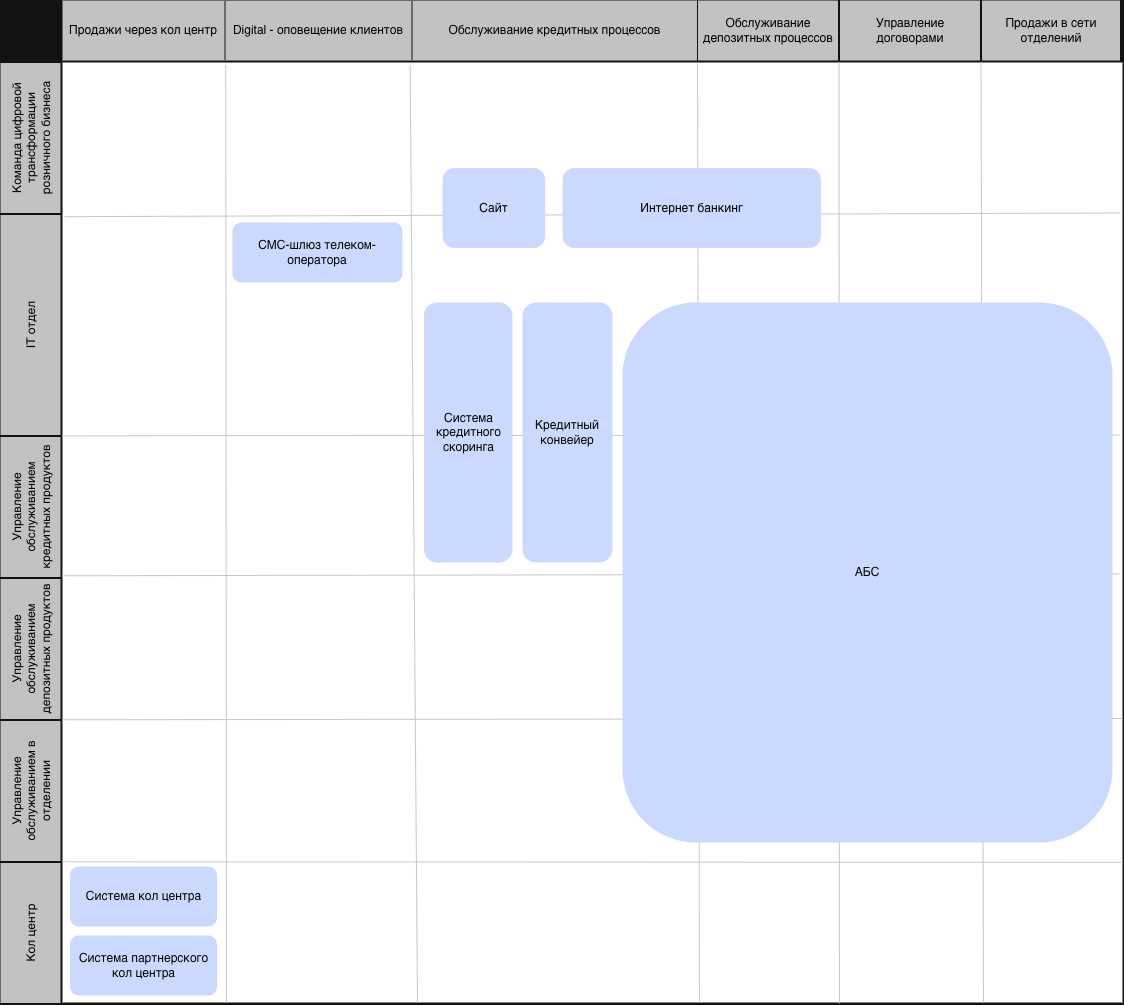
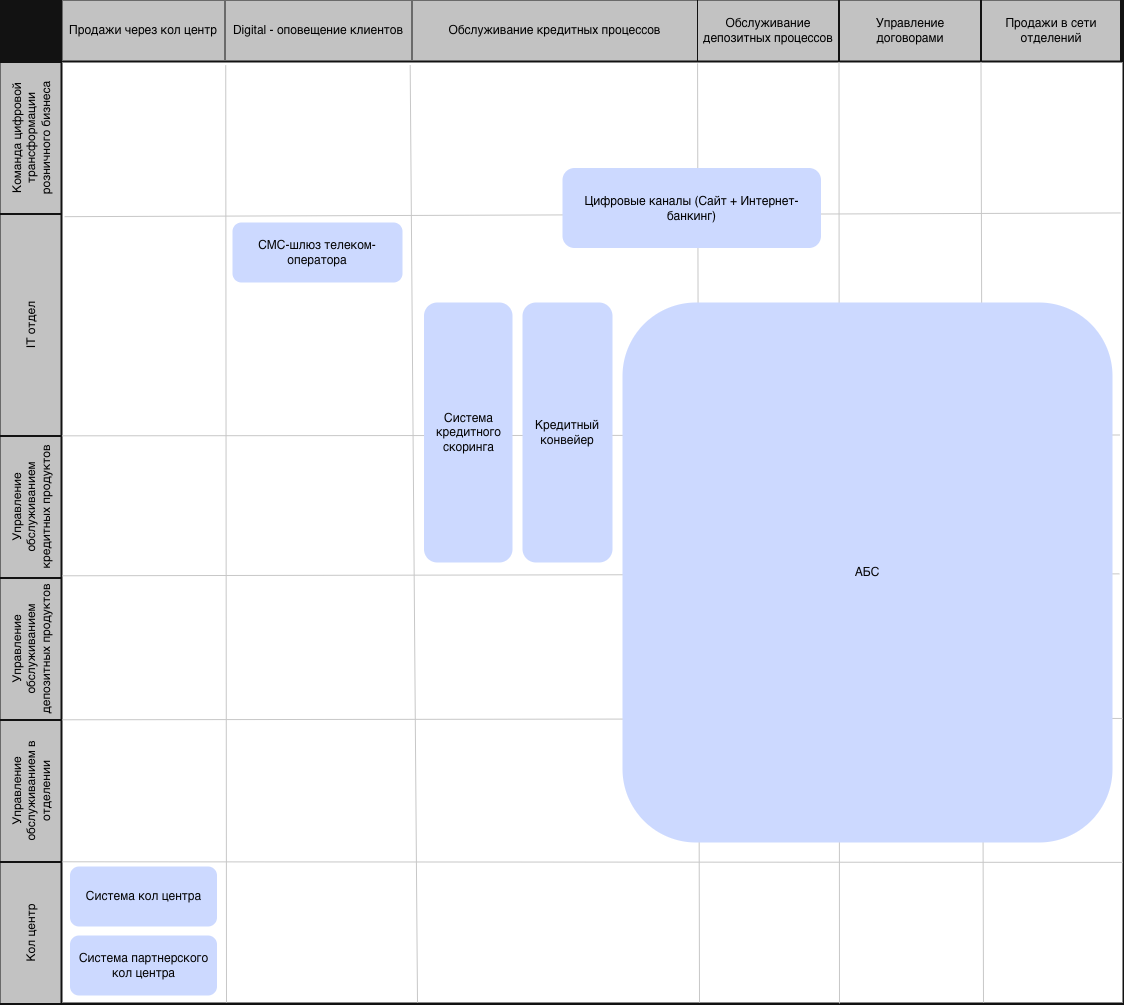
impl task 2

Changed region(s): [[0.3737, 0.1542, 0.4982, 0.2468], [0.5294, 0.1851, 0.7162, 0.2159]]

diff --git a/Task2/FURPS+_ALL.md b/Task2/FURPS+_ALL.md
@@ -1,0 +1,66 @@
+# FRUPS+ — Все требования
+
+| Код  | Требования                                                                 | Комментарий                                                                                                      |
+|------|-----------------------------------------------------------------------------|------------------------------------------------------------------------------------------------------------------|
+| F    | **Функциональные (Functionality)**                                              |                                                                                                                  |
+| F1   | Просмотр списка доступных депозитов и актуальных ставок на сайте            |                                                                                                                  |
+| F2   | Подача заявки на депозит с сайта (передаем номера телефона, ФИО)            |                                                                                                                  |
+| F3   | Просмотр заявки на депозит в системе кол центра                              |                                                                                                                  |
+| F4   | Фиксация результатов звонка с клиентом в системе кол центра                 | Явно не отражено в описании требований, но необходимо для дальнейшего подтверждения в АБС                       |
+| F5   | Просмотр актуальных базовых ставок по депозитам  в системе кол центра       | Явно не отражено в описании требований, но необходимо для консультации клиента по заявке                        |
+| F6   | Просмотр списка депозитов с актуальными и персонализированными ставками в интернет банкинге  |                                                                                  |
+| F7   | Подача заявки на открытие депозита в интернет банкинге (передаем счет списания + сумма депозита) |                                                     |
+| F8   | Подтверждение операции в интернет-банке через СМС-код                       |                                                                                                                  |
+| F9   | Подтверждение условий и ставки депозита в АБС бэк-офисом                     |                                                                                                                  |
+| F10  | Получение СМС-уведомления клиентом после подтверждения ставки/условий и после открытия депозита |                                            |
+| F11  | Управление ставками депозитных продуктов для сотрудника бэк офиса кредитования |                                                                                                                |
+| F12  | Отображение ставок по депозитам для сотрудника бэк офиса депозитов          |   
+| F13   | Просмотр списка доступных кредитных продуктов и актуальных условий на сайте | |
+| F14   | Подача заявки на кредит с сайта с указанием номера телефона и Ф. И. О. | |
+| F15   | Подача заявки на кредит с сайта с указанием паспортных данных для получения мгновенного решения | |
+| F16   | Получение решения по заявке нового клиента на основе данных системы кредитного скоринга и БКИ | |
+| F17   | Отправка клиенту СМС-уведомления о необходимости посещения отделения для идентификации и получения кредита | |
+| F18   | Продолжение обработки ранее созданной заявки по предодобренному кредиту (сайт → отделение) | |
+| F19   | Просмотр списка доступных кредитов и актуальных условий в интернет-банкинге | |
+| F20   | Отображение предодобренного кредитного предложения в интернет-банкинге | |
+| F21   | Повторный скоринг заявки по упрощённой процедуре при подаче заявки по предодобренному предложению | |
+| F22  | Подача заявки на кредит в интернет-банкинге с указанием счёта зачисления средств | |
+| F23  | Подтверждение подачи заявки на кредит в интернет-банкинге через СМС-код | |
+| F24  | Информирование клиента по СМС об изменении статуса заявки на кредит | |
+| F25  | Статусы заявки должны быть едиными и согласованными | Доп. требование: явно не отражено в описании, но без него невозможно корректно реализовать F24 |                                                                                                               |
+| U    | **Удобство использования (Usability)**                                          |                                                                                                                  |
+| U1   | Сайт и интернет-банк должны соответствовать принятой дизайн-системе         |                                                                                                                  |
+| U2   | Корректная работа сайта на мобильных устройствах (адаптивность)             | Доп. требование: сайт — публичный канал, ошибки UI/доступности влияют на продажи и репутацию.                  |
+| R    | **Надёжность (Reliability)**                                                    |                                                                                                                  |
+| R1   | Доступность сервисов 24/7 и 99,9%                                           |                                                                                                                  |
+| R2   | Избегать прямых синхронных вызовов интернет-банка к API АБС в новом процессе |                                                                                                                  |
+| R3   | При сбое ЦОД сервис должен быть доступен; поддержка переключения на резервный ЦОД |                                                                                                             |
+| R4   | Заявки и события не должны теряться; повторная отправка должна быть безопасной (идемпотентность) | Доп. требование: иначе будут “пропавшие” заявки и двойные СМС/операции |
+| R5   | Метрики доступности, задержек, ошибок                                       | Доп. требование для достижения 99,9% и управляемости.                                                           |
+| R6   | Защита персональных данных                                                  | Доп. требование (обоснование): сайт и IB обрабатывают ПДн; без этого высокие юридические и репутационные риски. |
+| R7   | Предусмотреть ролевую модель                                                | Доп. требование (обоснование): ставки и “особые условия депозитов” — зона повышенного риска злоупотреблений.   |
+| P    | **Производительность (Performance)**                                           |                                                                                                                  |
+| P1   | Очень быстрый отклик (миллисекунды) в клиентских каналах                    |                                                                                                                  |
+| P2   | Устранить проблему “справочные данные > 1 секунды” при операциях            |                                                                                                                  |
+| P3   | Горизонтальное масштабирование сервисов                                     |                                                                                                                  |
+| P4   | Балансировка запросов между серверами/приложениями/ЦОД                     |                                                                                                                  |
+| P5   | Пиковая нагрузка на сайт и IB не должна деградировать АБС                  |        
+| P6   | Предодобренные заявки должны быть обработаны сотрудниками в течение того же рабочего дня |  |                                                                                                          |
+| S    | **Поддерживаемость (Supportability)**                                          |                                                                                                                  |
+| S1   | Документация для дальнейшего расширения: API-контракты, схемы интеграций, описания процессов и статусов заявки |                                  |
+| S2   | Трассировка и диагностика: корреляционные ID, централизованные логи        | Доп. требование: критично при распределённой архитектуре и SLA 99,9%                                           |
+| S3   | возможность подключить новые продукты/каналы без переписывания ядра        | Доп. требование: снижает стоимость последующей цифровизации других продуктов.                                  |
+| +R   | **+ Ограничения (Restrictions)**                                               |                                                                                                                  |
+| +R1  | Шифрование трафика для сайта и интернет-банка при передаче данных (TLS)|                                  |
+| +R2  | Минимизировать доработки подрядчика в функционале СМС, использовать внутреннюю разработку |                                  |
+| +R3  | Очереди сообщений — предпочтительно Kafka “на перспективу”, но текущая платформа интернет-банка несовместима |                             |
+| +R4  | Возможная миграция интернет-банка к микросервисной архитектуре — только в рамках задачи депозитов |                              |
+| +R5  | АБС: вертикальное масштабирование из-за БД; нельзя планировать решение, которое требует горизонтального масштабирования АБС |        |
+| +R6  | MS SQL и/или Oracle для хранения данных; совместимость с текущими платформами разработки |                                   |
+| +R7  | Взаимодействие с БКИ, SMS-шлюзом и кредитным конвейером должно быть асинхронным | Доп требования: недоступность внешних систем не должна блокировать пользовательские сценарии |
+| +R8  | Запрещено проектировать решение, в котором потребители получают списки продуктов/ставки через прямые синхронные запросы к АБС на каждое пользовательское действие. Допускается только получение этих данных из выделенного read-слоя (витрина/кэш), синхронизируемого с АБС по расписанию или событиям | Доп требования: использование АБС как справочника создаёт риск деградации ядра при пиковом трафике |
+| +R9  | Система кредитного скоринга не должна нагружаться фоновыми или периодическими предрасчётами |   
+| +R10  | Клиентские каналы не должны инициировать скоринг чаще одного раза на заявку/событие | |   
+| +R11  | Заявка на кредит должна иметь единый сквозной идентификатор во всех каналах и системах |Доп требование: Основа сценария «продолжения заявки» |
+| +R12  | Нельзя ускорять обмен заявками между АБС и Кредитным конвейером чаще существующего регламента |  |
+

diff --git a/Task2/FURPS+_ASR.md b/Task2/FURPS+_ASR.md
@@ -1,0 +1,37 @@
+# FRUPS+ — ASR требования
+
+| Код  | Требования                                                                 | Комментарий                                                                                                      |
+|------|-----------------------------------------------------------------------------|------------------------------------------------------------------------------------------------------------------ 
+| R    | **Надёжность (Reliability)**                                                    |                                                                                                                  |
+| R1   | Доступность сервисов 24/7 и 99,9%                                           |                                                                                                                  |
+| R2   | Избегать прямых синхронных вызовов интернет-банка к API АБС в новом процессе |                                                                                                                  |
+| R3   | При сбое ЦОД сервис должен быть доступен; поддержка переключения на резервный ЦОД |                                                                                                             |
+| R4   | Заявки и события (подтверждение ставки, открытие депозита) не должны теряться; повторная отправка должна быть безопасной (идемпотентность) | Доп. требование: иначе будут “пропавшие” заявки и двойные СМС/операции |
+| R5   | Метрики доступности, задержек, ошибок                                       | Доп. требование для достижения 99,9% и управляемости.                                                           |
+| R6   | Защита персональных данных                                                  | Доп. требование (обоснование): сайт и IB обрабатывают ПДн; без этого высокие юридические и репутационные риски. |
+| R7   | Предусмотреть ролевую модель                                                | Доп. требование (обоснование): ставки и “особые условия депозитов” — зона повышенного риска злоупотреблений.   |
+| P    | **Производительность (Performance)**                                           |                                                                                                                  |
+| P1   | Очень быстрый отклик (миллисекунды) в клиентских каналах                    |                                                                                                                  |
+| P2   | Устранить проблему “справочные данные > 1 секунды” при операциях            |                                                                                                                  |
+| P3   | Горизонтальное масштабирование сервисов                                     |                                                                                                                  |
+| P4   | Балансировка запросов между серверами/приложениями/ЦОД                     |                                                                                                                  |
+| P5   | Пиковая нагрузка на сайт и IB не должна деградировать АБС                  |     
+| P6   | Предодобренные заявки должны быть обработаны сотрудниками в течение того же рабочего дня |  |                                                                                                                 |
+| S    | **Поддерживаемость (Supportability)**                                          |                                                                                                                  |
+| S1   | Документация для дальнейшего расширения: API-контракты, схемы интеграций, описания процессов и статусов заявки |                                  |
+| S2   | Трассировка и диагностика: корреляционные ID, централизованные логи        | Доп. требование: критично при распределённой архитектуре и SLA 99,9%                                           |
+| S3   | возможность подключить новые продукты/каналы без переписывания ядра        | Доп. требование: снижает стоимость последующей цифровизации других продуктов.                                  |
+| +R   | **+ Ограничения (Restrictions)**                                               |                                                                                                                  |
+| +R1  | Шифрование трафика для сайта и интернет-банка при передаче данных (TLS)|                                  |
+| +R2  | Минимизировать доработки подрядчика в функционале СМС, использовать внутреннюю разработку |                                  |
+| +R3  | Очереди сообщений — предпочтительно Kafka “на перспективу”, но текущая платформа интернет-банка несовместима |                             |
+| +R4  | Возможная миграция интернет-банка к микросервисной архитектуре — только в рамках задачи депозитов |                              |
+| +R5  | АБС: вертикальное масштабирование из-за БД; нельзя планировать решение, которое требует горизонтального масштабирования АБС |        |
+| +R6  | MS SQL и/или Oracle для хранения данных; совместимость с текущими платформами разработки |                                   |
+| +R7  | Взаимодействие с БКИ, SMS-шлюзом и кредитным конвейером должно быть асинхронным | Доп требования: недоступность внешних систем не должна блокировать пользовательские сценарии |
+| +R8  | Запрещено проектировать решение, в котором потребители получают списки продуктов/ставки через прямые синхронные запросы к АБС на каждое пользовательское действие. Допускается только получение этих данных из выделенного read-слоя (витрина/кэш), синхронизируемого с АБС по расписанию или событиям | Доп требования: использование АБС как справочника создаёт риск деградации ядра при пиковом трафике |
+| +R9  | Система кредитного скоринга не должна нагружаться фоновыми или периодическими предрасчётами |   
+| +R10  | Клиентские каналы не должны инициировать скоринг чаще одного раза на заявку/событие | |   
+| +R11  | Заявка на кредит должна иметь единый сквозной идентификатор во всех каналах и системах |Доп требование: Основа сценария «продолжения заявки» |
+| +R12  | Нельзя ускорять обмен заявками между АБС и Кредитным конвейером чаще существующего регламента |  |
+

diff --git a/README.md b/README.md
@@ -14,5 +14,5 @@
 [Схема интеграций приложений](Task1/as-is/Integrations.png)
 
 ## Задание 2
-
-
+[Все требования по модели FURPS+](Task2/FURPS+_ALL.md)
+[Архитектурно значимые требования по модели FURPS+](Task2/FURPS+_ASR.md)
